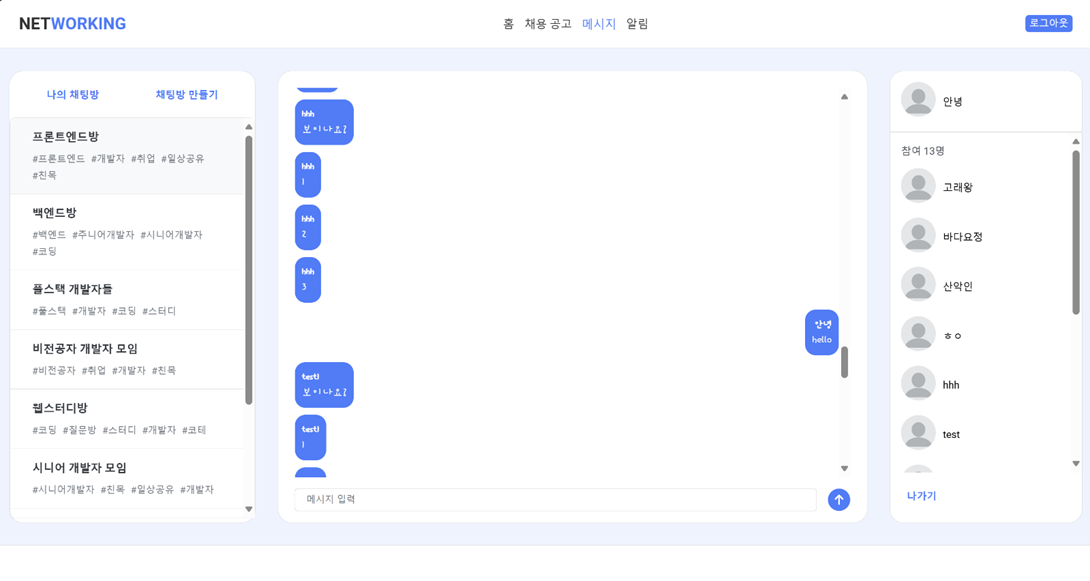
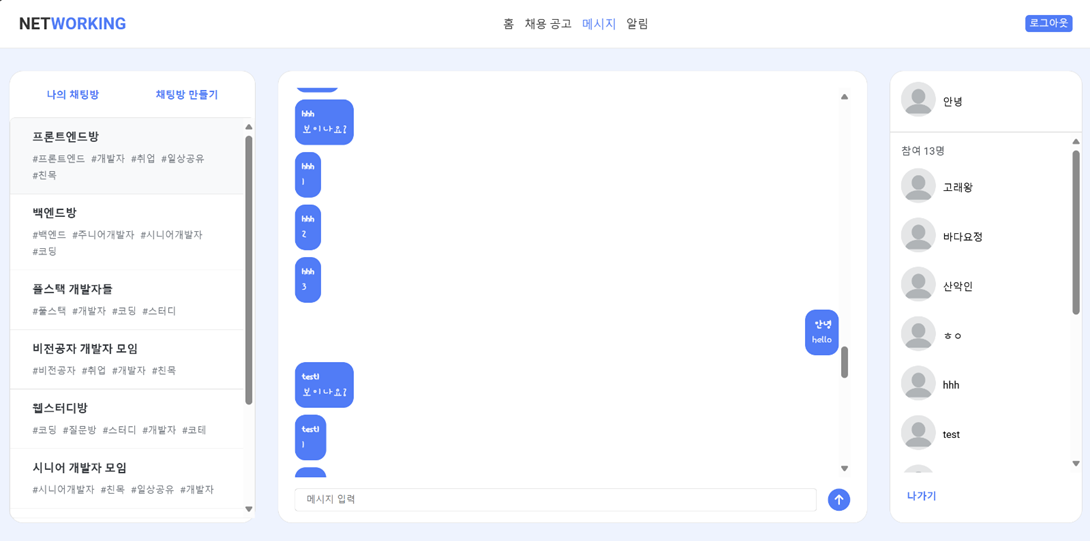
readme img

diff --git a/README.md b/README.md
@@ -3,11 +3,11 @@
 ## IT 구직자 소통 및 정보 교류 플랫폼
 
 <div>
-    <img src="src/assets/images/readme_main.png" width="400" height="215" style="display: inline-block; margin-right: 10px;"/>
-    <img src="src/assets/images/readme_job.png" width="400" height="215"style="display: inline-block; margin-right: 10px;"/>
+    <img src="src/assets/images/readme_main.png" width="400"  style="display: inline-block; margin-right: 10px;"/>
+    <img src="src/assets/images/readme_job.png" width="400" style="display: inline-block; margin-right: 10px;"/>
     </br>
-    <img src="src/assets/images/readme_chat.png" width="400" height="220" style="display: inline-block; margin-right: 10px;"/>
-    <img src="src/assets/images/readme_noti.png" width="400" height="215" style="display: inline-block; margin-right: 10px;"/>
+    <img src="src/assets/images/readme_chat.png" width="400"  style="display: inline-block; margin-right: 10px;"/>
+    <img src="src/assets/images/readme_noti.png" width="400"  style="display: inline-block; margin-right: 10px;"/>
 </div>
 ## 개발 목적
 IT 분야 구직자와 기업이 서로 소통하고 정보를 공유할 수 있는 커뮤니티 서비스를 제공하여 사용자의 커리어 발전에 도움을 줍니다.
